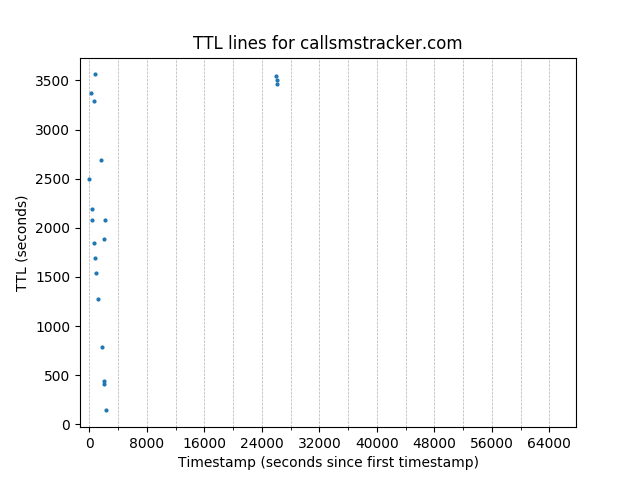
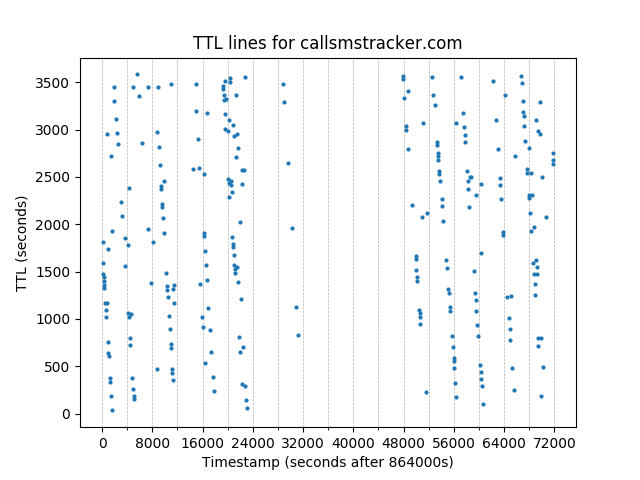
Fix some bugs and add popular_domains.txt

diff --git a/graph_ttls.py b/graph_ttls.py
@@ -91,7 +91,6 @@ def calculateTTLLines(timestamps, ttls):
         intercepts.append(intercept)
     # Figure out how many unique intercepts there are
     intercepts.sort()
-    # print(intercepts[0:100])
     for i in range(0, len(intercepts)-1):
         if intercepts[i] != intercepts[i+1]:
             unique_intercepts += 1
@@ -100,8 +99,22 @@ def calculateTTLLines(timestamps, ttls):
     print("Total intercepts: " + str(len(intercepts)))
     return unique_intercepts
 
+def getPointRange(start_time, end_time, ts):
+    # Take the first index where the timestamp is larger than the start time,
+    # and the last index where the timestamp is smaller than the end time.
+    # Works because the timestamps are sorted.
+    start_idx = 0
+    end_idx = len(ts)
+    start_idxs = np.where(ts >= start_time)[0]
+    if len(start_idxs) != 0:
+        start_idx = start_idxs[0]
+    end_idxs = np.where(ts > end_time)[0]
+    if len(end_idxs) != 0:
+        end_idx = end_idxs[0]
+    return np.arange(start_idx, end_idx, 1)
+
 def sortByDomain():
-    readFindStalkerwareResults("kim_results/kim_results_small.txt")
+    readFindStalkerwareResults("kim_results/kim_results_9-24-19.txt")
     ttls_by_domain = {}
     ts_by_domain = {}
     max_ttls_by_domain = {}
@@ -127,27 +140,14 @@ def sortByDomain():
         print("Unique intercepts for " + d + ": " + str(unique_intercepts))
 
         # Determine what range of points to display to easily see the TTL lines.
-        start_time = 0
-        end_time = 20 * max_ttl
-
-        # Take the first index where the timestamp is larger than the start time,
-        # and the last index where the timestamp is smaller than the end time.
-        # Works because the timestamps are sorted.
-        start_idx = 0
-        end_idx = len(np_ts)-1
-        start_idxs = np.where(np_ts >= start_time)[0]
-        if len(start_idxs) != 0:
-            start_idx = start_idxs[0]
-        end_idxs = np.where(np_ts >= end_time)[0]
-        if len(end_idxs) != 0:
-            end_idx = end_idxs[0]
-        idx_range = np.arange(start_idx, end_idx, 1)
+        start_time = 864000
+        end_time = 20 * max_ttl + start_time
+        idx_range = getPointRange(start_time, end_time, np_ts)
 
         # Get the chunks of the arrays to plot, and plot them.
         ts_in_range = np_ts[idx_range]
         ttls_in_range = np.array(ttls_by_domain[d])[idx_range]
-        plotTsVsTTLs(ts_in_range, ttls_in_range, 0, len(ts_in_range), max_ttl, d)
-
+        plotTsVsTTLs(ts_in_range, ttls_in_range, start_time, end_time, max_ttl, d)
 
 '''
 Assumes the csv looks like this:
@@ -198,13 +198,13 @@ def plotTsVsTTLs(start, end, filename):
     plt.show()
 
 def plotTsVsTTLs(ts, ttls, start, end, max_ttl, domain):
-    np_ts = np.array(ts) - ts[0]
-    plt.plot(np_ts[start:end], ttls[start:end], linestyle="",marker="o", markersize=2.0)
+    plt.plot(ts - start, ttls, linestyle="",marker="o", markersize=2.0)
     plt.grid(axis='x', linewidth=0.5, linestyle = 'dashed', which='minor')
-    plt.xticks(np.arange(0, 20*max_ttl, max_ttl))
+    plt.xticks(np.arange(0, end-start, max_ttl))
     plt.axes().xaxis.set_major_locator(plt.MaxNLocator(10))
     plt.axes().xaxis.set_minor_locator(plt.MaxNLocator(20))
-    plt.xlabel('Timestamp (seconds since first timestamp)')
+    xlabel = 'Timestamp (seconds after ' + str(start) +'s)'
+    plt.xlabel(xlabel)
     plt.ylabel('TTL (seconds)')
     title = 'TTL lines for ' + domain
     plt.title(title)
